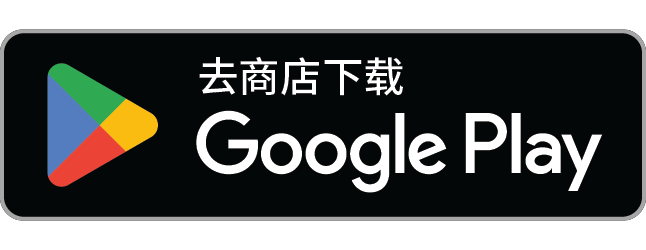
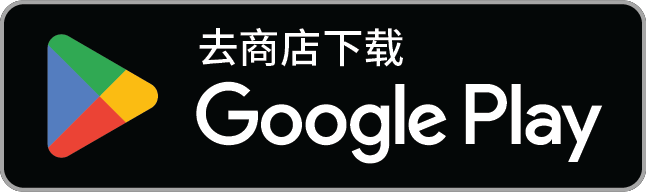
docs: align the store badges and github mark

diff --git a/README.md b/README.md
@@ -12,7 +12,7 @@
 <p align="center">
   <a href="https://apps.apple.com/app/id6818022759"><img src="assets/badge-app-store.svg" height="40" alt="在 App Store 下载"></a>
   &nbsp;&nbsp;
-  <a href="https://play.google.com/store/apps/details?id=io.lv1.resource"><img src="assets/badge-google-play.png" height="52" alt="下载应用，请到 Google Play"></a>
+  <a href="https://play.google.com/store/apps/details?id=io.lv1.resource"><img src="assets/badge-google-play.png" height="40" alt="下载应用，请到 Google Play"></a>
 </p>
 
 <p align="center">
@@ -213,11 +213,11 @@
 <p align="center">
   <a href="https://apps.apple.com/app/id6818022759"><img src="assets/badge-app-store.svg" height="40" alt="在 App Store 下载"></a>
   &nbsp;&nbsp;
-  <a href="https://play.google.com/store/apps/details?id=io.lv1.resource"><img src="assets/badge-google-play.png" height="52" alt="下载应用，请到 Google Play"></a>
+  <a href="https://play.google.com/store/apps/details?id=io.lv1.resource"><img src="assets/badge-google-play.png" height="40" alt="下载应用，请到 Google Play"></a>
 </p>
 
 <p align="center">
-  <a href="https://github.com/kenischu/ReSource/releases"><picture><source media="(prefers-color-scheme: dark)" srcset="assets/github-mark-white.svg"><img src="assets/github-mark.svg" height="20" alt=""></picture> GitHub Releases · 直接下载 APK</a>
+  <a href="https://github.com/kenischu/ReSource/releases"><picture><source media="(prefers-color-scheme: dark)" srcset="assets/github-mark-white.svg"><img src="assets/github-mark.svg" height="20" align="absmiddle" alt=""></picture> GitHub Releases · 直接下载 APK</a>
 </p>
 
 <p align="center">免费下载 · 无广告 · Pro 可选 · iOS 26+ · Android 8.0+</p>
